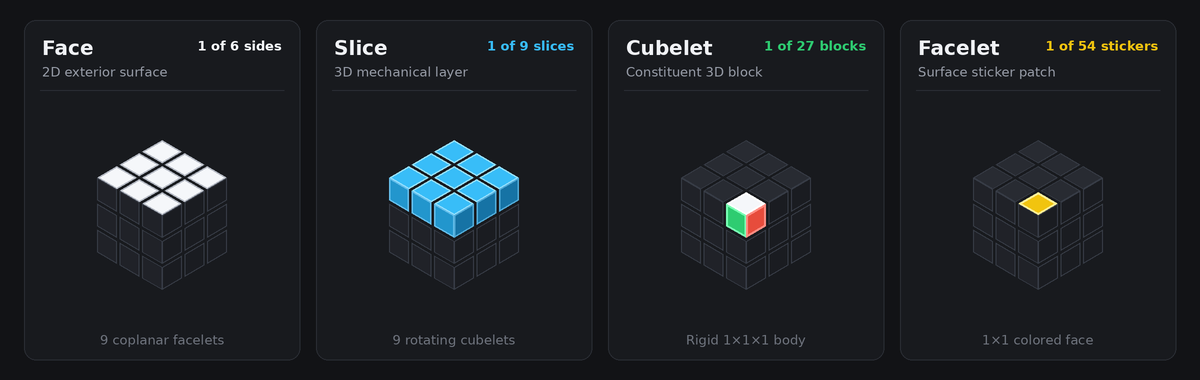
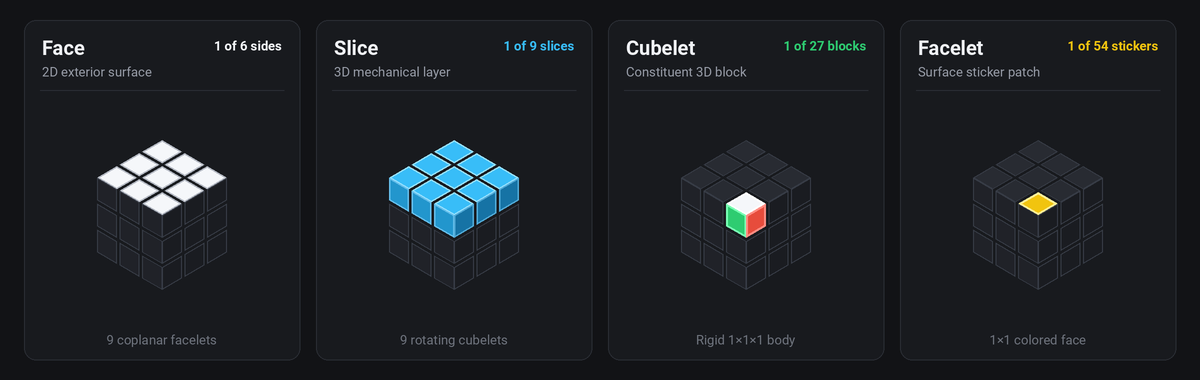
fix(scripts): use vendored fonts for anatomy diagram and center cubelet types figure

diff --git a/scripts/generate_anatomy.py b/scripts/generate_anatomy.py
@@ -20,30 +20,12 @@ SH = HEIGHT * SCALE
 img = Image.new("RGBA", (SW, SH), (18, 19, 22, 255))
 draw = ImageDraw.Draw(img)
 
+FONTS_DIR = REPO_ROOT / "fonts"
+
 # Fonts
-font_dir = Path("/usr/share/fonts")
-bold_font_path = None
-regular_font_path = None
-
-for path in [
-    font_dir / "truetype" / "roboto" / "unhinted" / "Roboto-Bold.ttf",
-    font_dir / "truetype" / "dejavu" / "DejaVuSans-Bold.ttf",
-]:
-    if path.exists():
-        bold_font_path = str(path)
-        break
-
-for path in [
-    font_dir / "truetype" / "roboto" / "unhinted" / "Roboto-Regular.ttf",
-    font_dir / "truetype" / "dejavu" / "DejaVuSans.ttf",
-]:
-    if path.exists():
-        regular_font_path = str(path)
-        break
-
-font_panel_title = ImageFont.truetype(bold_font_path or "sans-serif", 20 * SCALE)
-font_panel_sub = ImageFont.truetype(regular_font_path or "sans-serif", 13 * SCALE)
-font_panel_stat = ImageFont.truetype(bold_font_path or "sans-serif", 13 * SCALE)
+font_panel_title = ImageFont.truetype(str(FONTS_DIR / "Roboto-Bold.ttf"), 20 * SCALE)
+font_panel_sub = ImageFont.truetype(str(FONTS_DIR / "Roboto-Regular.ttf"), 13 * SCALE)
+font_panel_stat = ImageFont.truetype(str(FONTS_DIR / "Roboto-Bold.ttf"), 13 * SCALE)
 
 # Color palette
 C_BG = (18, 19, 22)
@@ -131,9 +113,6 @@ def render_cube(draw, cx, cy, sz, mode):
     cubelets.sort(key=lambda c: (c[0] + c[1] + c[2], c[2], c[0], c[1]))
 
     for i, j, k in cubelets:
-        # Determine coloring based on mode
-        is_highlight_cubelet = False
-        is_highlight_slice = (k == 1)
         is_corner = (i == 1 and j == 1 and k == 1)
 
         # Base muted fills

diff --git a/README.md b/README.md
@@ -89,7 +89,9 @@ $$\|c\|_1 = |x| + |y| + |z|$$
 
 Total: $1 + 6 + 12 + 8 = 27$ cubelets.
 
-![Types of Cubelets](img/cubelet-types.png)
+<p align="center">
+  <img src="img/cubelet-types.png" alt="Types of Cubelets" width="600">
+</p>
 
 No lookup tables, no hardcoded classifications. The physical nature of the cubelet falls directly out of its coordinate norm.
 
